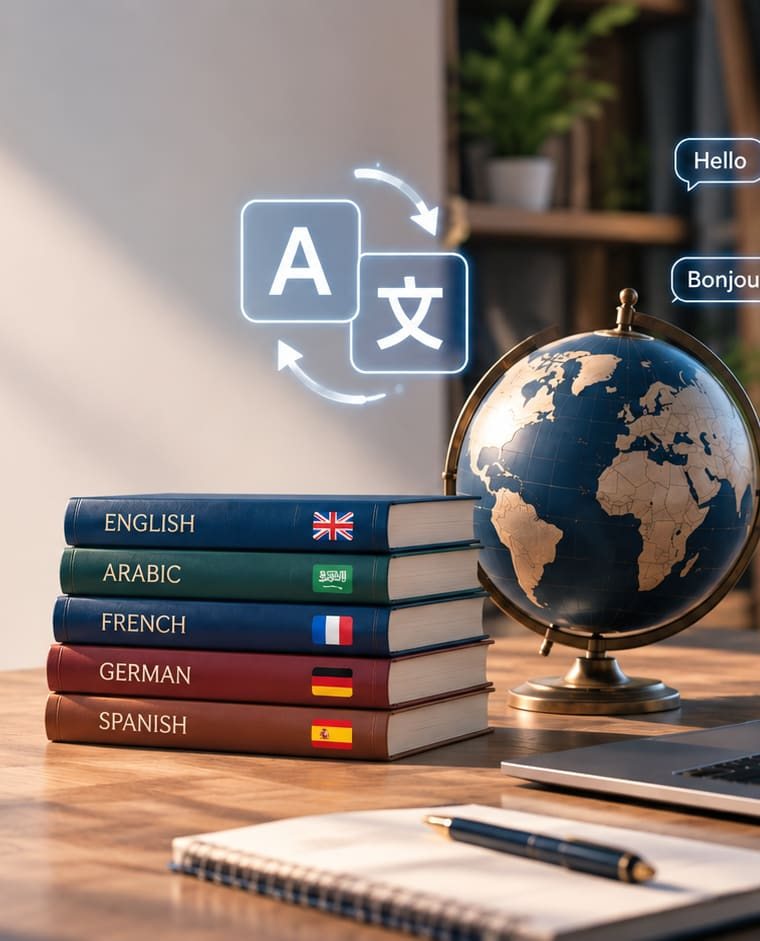
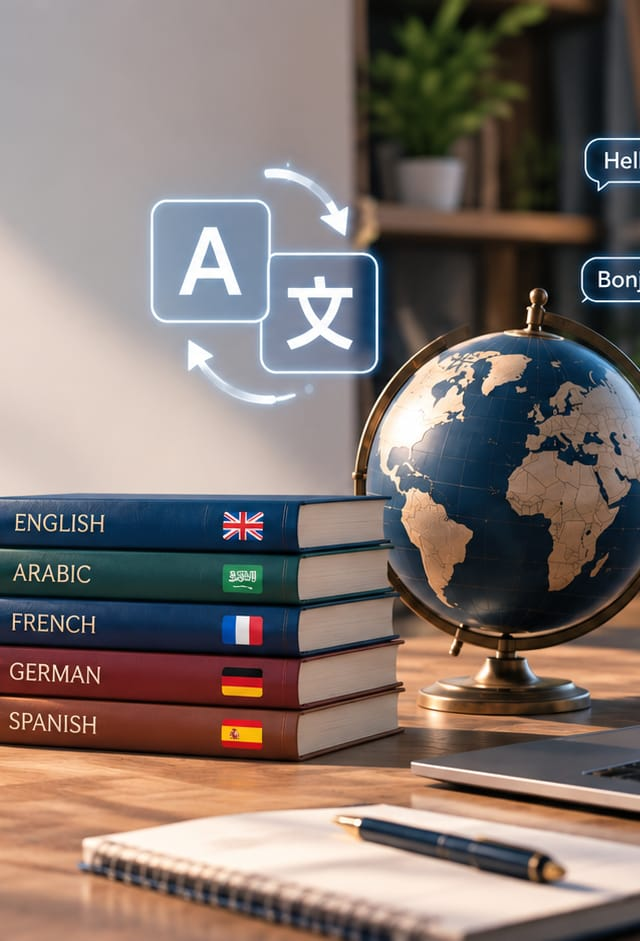
Mobile hero: portrait image with dark overlay

diff --git a/src/styles/global.css b/src/styles/global.css
@@ -604,6 +604,7 @@ html[lang='ar'] .footer h5 { letter-spacing: 0; font-size: 0.92rem; }
 .fab { width: 58px; height: 58px; border-radius: 50%; display: grid; place-items: center; box-shadow: 0 14px 34px -10px rgba(0, 0, 0, 0.45); transition: transform .35s var(--ease), opacity .35s; }
 .fab:hover { transform: translateY(-3px) scale(1.04); }
 .fab-wa { background: #25d366; color: #fff; position: relative; }
+.fab-wa.hide { opacity: 0; transform: translateY(16px) scale(.9); pointer-events: none; }
 .fab-wa::before { content: ''; position: absolute; inset: 0; border-radius: 50%; border: 2px solid #25d366; animation: ring 2.4s infinite; }
 @keyframes ring { from { transform: scale(1); opacity: 0.8; } to { transform: scale(1.6); opacity: 0; } }
 .fab-top { width: 46px; height: 46px; background: var(--navy-800); color: var(--gold-300); justify-self: center; opacity: 0; pointer-events: none; transform: translateY(10px); }
@@ -660,22 +661,31 @@ html[dir='rtl'] .progress-bar { transform-origin: right; }
   .header-actions .lang-btn .lang-label { display: none; }
   .hero { padding-top: calc(var(--header-h) + 30px); }
   .hero-actions .btn { flex: 1 1 100%; }
-  .hero-home { justify-content: flex-start; padding-top: calc(var(--header-h) + 40svh); background: #040f1c; }
-  html[dir='rtl'] .hero-home { background: #040f1c; }
-  .hero-home .hero-media, html[dir='rtl'] .hero-home .hero-media { inset: 0 0 auto 0; width: 100%; height: 62svh; min-height: 400px; }
-  .hero-home .hero-media img, html[dir='rtl'] .hero-home .hero-media img { object-position: 50% 45%; animation: none; transform: none;
-    -webkit-mask-image: linear-gradient(180deg, #000 50%, rgba(0,0,0,.45) 75%, transparent 100%); mask-image: linear-gradient(180deg, #000 50%, rgba(0,0,0,.45) 75%, transparent 100%); }
-  .hero-home::before, html[dir='rtl'] .hero-home::before { background: linear-gradient(180deg, rgba(4, 15, 28, 0.7) 0, rgba(4, 15, 28, 0) 130px); }
+  /* Mobile home hero: full-bleed photo with a navy/gold overlay so the text stays readable on top of it */
+  .hero-home, html[dir='rtl'] .hero-home { padding-top: 0; justify-content: flex-start; min-height: 0; background: #040f1c; }
+  .hero-home .hero-media, html[dir='rtl'] .hero-home .hero-media { inset: 0 0 auto 0; width: 100%; height: max(100svh, 620px); }
+  .hero-home .hero-media img, html[dir='rtl'] .hero-home .hero-media img { object-position: 50% 28%; animation: none; transform: none;
+    -webkit-mask-image: none; mask-image: none; filter: saturate(1.05); }
+  .hero-home::before, html[dir='rtl'] .hero-home::before { inset: 0 0 auto 0; height: max(100svh, 620px); background:
+    radial-gradient(90% 45% at 50% 22%, rgba(201, 164, 92, 0.16), transparent 70%),
+    linear-gradient(180deg, rgba(4, 15, 28, 0.86) 0%, rgba(7, 26, 46, 0.6) 20%, rgba(7, 26, 46, 0.7) 50%, rgba(4, 15, 28, 0.9) 82%, #040f1c 100%); }
   .hero-home::after { display: none; }
-  .hero-home .hero-content { position: relative; }
-  .hero-home .hero-content::before { content: ''; position: absolute; inset: -40px calc(var(--gutter) * -1) auto; height: 160px; z-index: -1;
-    background: linear-gradient(180deg, rgba(4, 15, 28, 0) 0%, rgba(4, 15, 28, 0.85) 45%, #040f1c 100%); }
-  .hero-home .hero-eyebrow { margin-bottom: 16px; font-size: 0.7rem; }
-  .hero-home .hero-title { font-size: clamp(2.6rem, 12vw, 3.6rem); }
-  .hero-home .hero-lead { margin-top: 18px; font-size: 1rem; }
-  .hero-home .hero-actions { margin-top: 28px; gap: 10px; }
-  .hero-home .hero-badge { margin-top: 22px; }
-  .hero-home .hero-stats { margin-top: 40px; padding-bottom: 28px; }
+  .hero-home .hero-content { position: relative; min-height: max(100svh, 620px); display: flex; flex-direction: column; justify-content: center;
+    padding-top: calc(var(--header-h) + 12px); padding-bottom: 40px; }
+  .hero-home .hero-title, .hero-home .hero-lead, .hero-home .hero-eyebrow { text-shadow: 0 2px 18px rgba(0, 0, 0, 0.45); }
+  .hero-home .hero-eyebrow { margin-bottom: 14px; font-size: 0.68rem; letter-spacing: 0.18em; }
+  .hero-home .hero-eyebrow::before { width: 22px; }
+  .hero-home .hero-title { font-size: clamp(2.5rem, 11.5vw, 3.4rem); text-shadow: 0 2px 24px rgba(0, 0, 0, 0.35); }
+  html[lang='ar'] .hero-home .hero-title { font-size: clamp(2.4rem, 11vw, 3.2rem); }
+  .hero-home .hero-lead { margin-top: 16px; font-size: 0.98rem; line-height: 1.65; color: rgba(255, 255, 255, 0.86); }
+  .hero-home .hero-actions { margin-top: 24px; gap: 10px; }
+  .hero-home .hero-actions .btn { flex: 1 1 calc(50% - 5px); --h: 48px; padding: 0 12px; font-size: 0.82rem; }
+  html[lang='ar'] .hero-home .hero-actions .btn { font-size: 0.9rem; }
+  .hero-home .hero-actions .btn:first-child { flex-basis: 100%; --h: 54px; font-size: 0.92rem; }
+  .hero-home .hero-actions .btn-ghost .icon { display: none; }
+  .hero-home .hero-badge { margin-top: 18px; font-size: 0.78rem; }
+  .hero-home .hero-stats { margin-top: 0; padding-bottom: 32px; }
+  .hero-home .stats { background: rgba(4, 15, 28, 0.55); }
   .stats { grid-template-columns: repeat(2, 1fr); }
   .stat { padding: 20px 18px; }
   .stat:nth-child(3) { border-inline-start: 0; }

diff --git a/src/components/Footer.jsx b/src/components/Footer.jsx
@@ -2,7 +2,7 @@ import { useEffect, useState } from 'react';
 import { COMPANY, whatsappLink } from '../data/company.js';
 import { SERVICES } from '../data/services.js';
 import { useI18n } from '../lib/i18n.jsx';
-import { Link } from '../lib/router.jsx';
+import { Link, useRouter } from '../lib/router.jsx';
 import { Logo } from './Header.jsx';
 import Icon from './Icon.jsx';
 import { ButtonLink, Reveal } from './ui.jsx';
@@ -121,18 +121,23 @@ export function Footer() {
 
 export function FloatingActions() {
   const { t } = useI18n();
+  const { path } = useRouter();
   const [show, setShow] = useState(false);
+  const [waHidden, setWaHidden] = useState(false);
   useEffect(() => {
     const bar = document.querySelector('.progress-bar');
     const on = () => {
       const h = document.documentElement.scrollHeight - window.innerHeight;
       if (bar) bar.style.transform = `scaleX(${h > 0 ? window.scrollY / h : 0})`;
       setShow(window.scrollY > 700);
+      // On phones keep the hero's call-to-action clear: reveal WhatsApp after a short scroll.
+      setWaHidden(window.innerWidth <= 760 && window.scrollY < 420 && window.location.pathname === '/');
     };
     on();
     window.addEventListener('scroll', on, { passive: true });
-    return () => window.removeEventListener('scroll', on);
-  }, []);
+    window.addEventListener('resize', on);
+    return () => { window.removeEventListener('scroll', on); window.removeEventListener('resize', on); };
+  }, [path]);
   return (
     <>
       <div className="progress-bar" aria-hidden="true" />
@@ -140,7 +145,7 @@ export function FloatingActions() {
         <button className={`fab fab-top ${show ? 'show' : ''}`} onClick={() => window.scrollTo({ top: 0, behavior: 'smooth' })} aria-label={t('common.backToTop')}>
           <Icon name="arrowUp" size={20} />
         </button>
-        <a className="fab fab-wa" href={whatsappLink()} target="_blank" rel="noopener noreferrer" aria-label={t('common.whatsapp')}>
+        <a className={`fab fab-wa ${waHidden ? 'hide' : ''}`} href={whatsappLink()} target="_blank" rel="noopener noreferrer" aria-label={t('common.whatsapp')}>
           <Icon name="whatsapp" size={28} />
         </a>
       </div>
